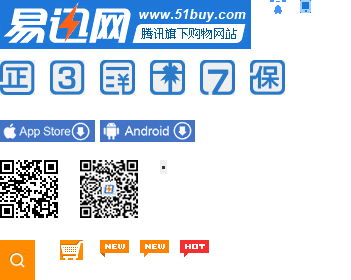
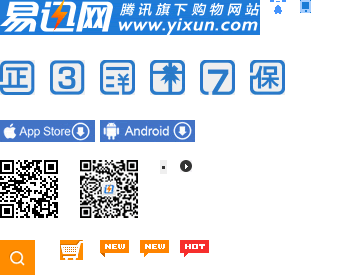
opt 160

diff --git a/x/gb_index.css b/x/gb_index.css
@@ -44,11 +44,11 @@
 .ic_header {height:100px;background-color:#1D7AD9;}
 
     /* logo */
-    .mod_logo {float:left;width:259px;height:50px;margin-top:25px;border-right:1px solid #0D67B3;#display:inline;margin-right:10px;overflow:hidden;border-right:1px solid #0D67B3;}
+    .mod_logo {float:left;width:269px;height:35px;margin-top:35px;border-right:1px solid #0D67B3;#display:inline;margin-right:10px;overflow:hidden;border-right:1px solid #0D67B3;}
     .mod_logo a {display:block;height:100%;text-indent:-9999px;}
 
     /* sublogo area  */
-    .mod_city {float:left;margin-top:30px;}
+    .mod_city {float:left;margin-top:35px;}
     .mod_city_prom {clear:both;color:#FEE602;font-weight:700;}
 
     /* region choose */
